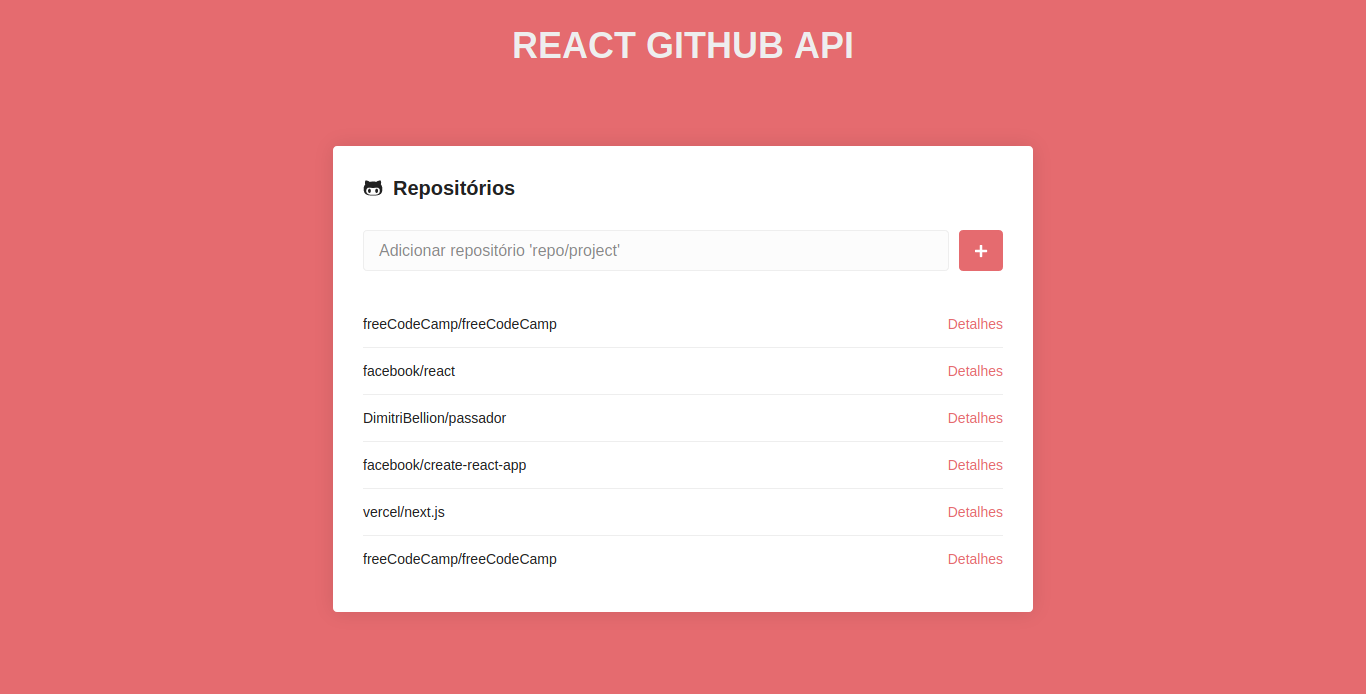
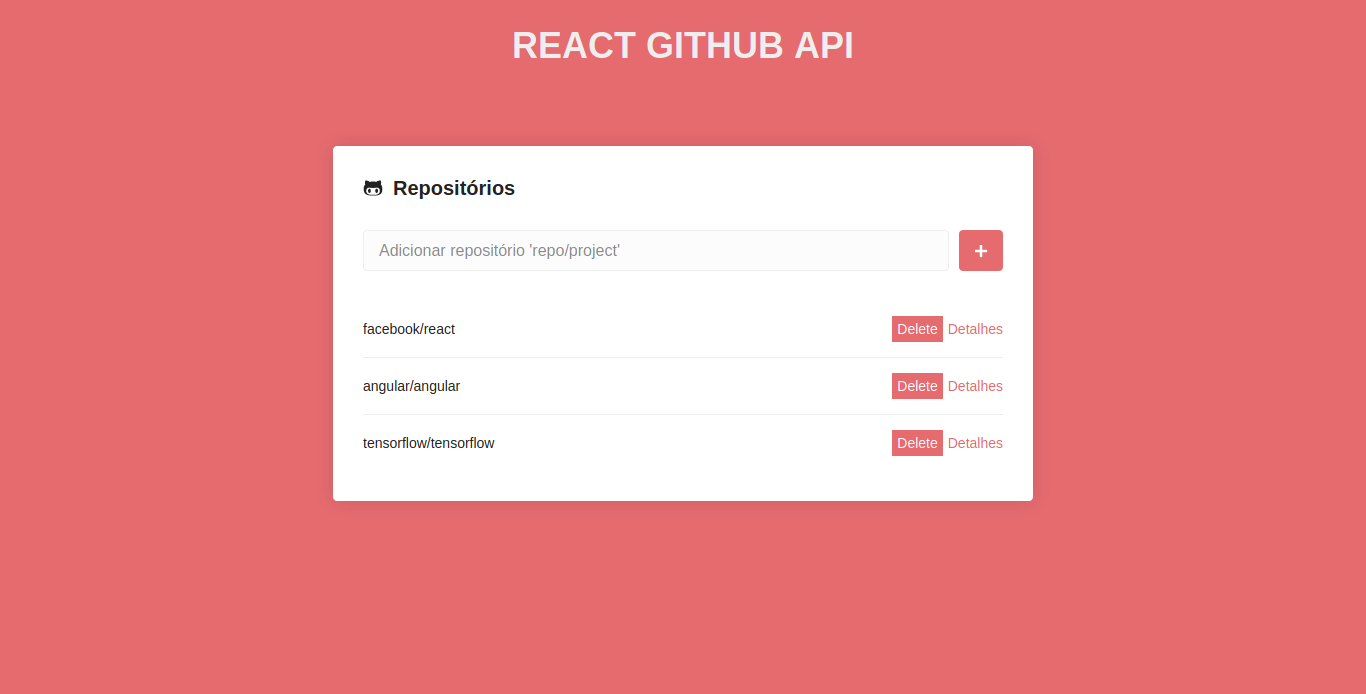
Add button delete.

Changed region(s): [[0.246, 0.4539, 0.7687, 0.9078], [0.246, 0.4539, 0.3997, 0.4841]]

diff --git a/src/pages/Main/index.js b/src/pages/Main/index.js
@@ -5,7 +5,7 @@ import { Link } from 'react-router-dom';
 import api from '../../services/api';
 
 import Container from '../../components/Container';
-import { Title, Form, SubmitButton, List } from './styles';
+import { Title, Form, SubmitButton, List, ButtonContainer } from './styles';
 
 class Main extends Component {
     state = {
@@ -57,6 +57,11 @@ class Main extends Component {
         })
     };
 
+    handleDelete = (repository) => {
+        console.log(repository)
+        this.setState({ repositories: this.state.repositories.filter(r => r !== repository) })
+    }
+
 
     render() {
         const { newRepo, repositories, loading } = this.state;
@@ -77,16 +82,19 @@ class Main extends Component {
                             {loading ? (<FaSpinner color="#FFF" size={14} />) : (<FaPlus color="#FFF" size={14} />)}
                         </SubmitButton>
                     </Form>
-                <List>
-                    {repositories.map(repository => (
-                        <li key={repository.name}>
-                            <span>{repository.name}</span>
-                            <Link to={`/repository/${encodeURIComponent(repository.name)}`}>Detalhes</Link>
-                        </li>
-                    ))}
-                </List>
+                    <List>
+                        {repositories.map(repository => (
+                            <li key={repository.name}>
+                                <span>{repository.name}</span>
+                                <ButtonContainer>
+                                    <button onClick={() => this.handleDelete(repository)}>Delete</button>
+                                    <Link to={`/repository/${encodeURIComponent(repository.name)}`}>Detalhes</Link>
+                                </ButtonContainer>
+                            </li>
+                        ))}
+                    </List>
 
-            </Container>
+                </Container>
             </>
         )
     }

diff --git a/src/pages/Main/styles.js b/src/pages/Main/styles.js
@@ -66,6 +66,7 @@ export const List = styled.ul`
         display: flex;
         flex-direction: row;
         justify-content: space-between;
+        align-content: flex-end;
         align-items: center;
 
         & + li {
@@ -76,5 +77,20 @@ export const List = styled.ul`
             color: #e56b6f;
             text-decoration: none;
         }
+    }
+`;
+
+export const ButtonContainer = styled.div`
+    display:flex;
+    justify-content: center;
+    align-items: center;
+
+    button {
+        margin-right: 5px;
+        display:flex;
+        color: #fff;
+        background: #e56b6f;
+        padding: 5px;
+        border: 0;
     }
 `;
